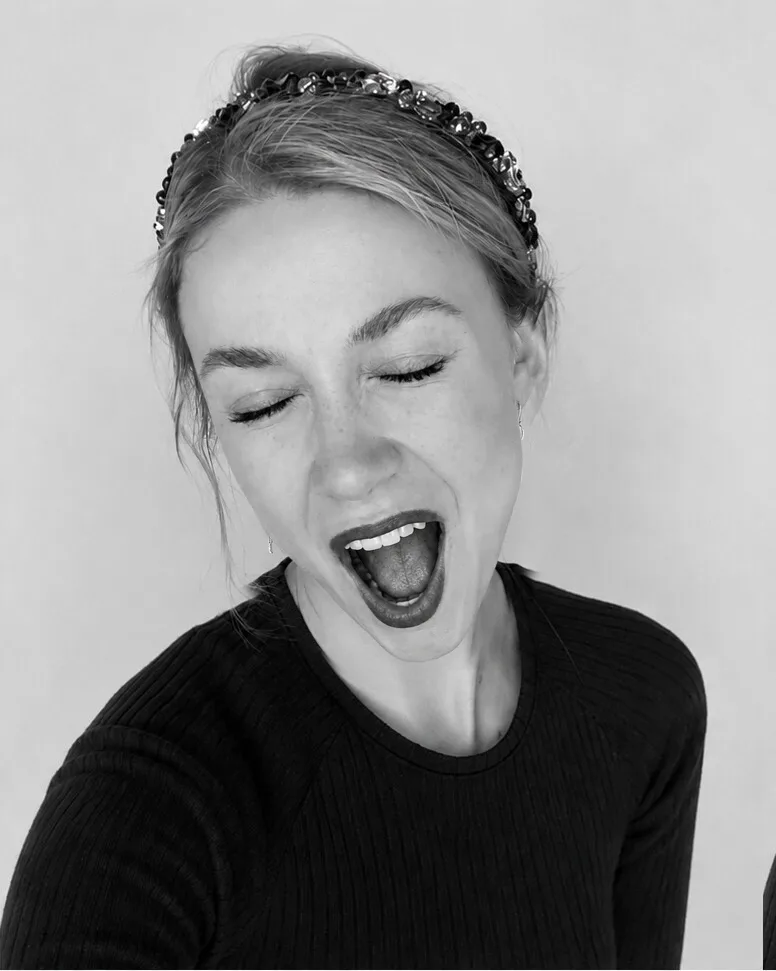
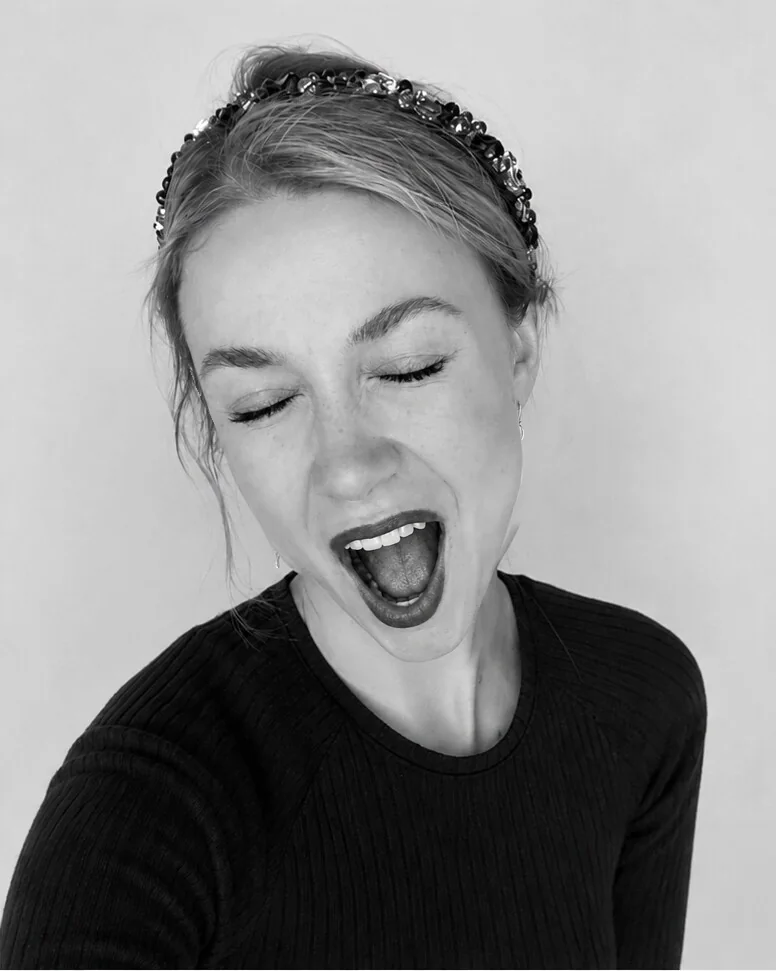
Refine hero portrait seams

diff --git a/ks/AGENTS.md b/ks/AGENTS.md
@@ -115,13 +115,17 @@ Below that it is an ordinary flowing document.
 - Two frames cross-fade in the same box: `assets/portrait/calm-*` and
   `assets/portrait/wink-*`. The hover expression comes from the client's exact
   reference in `source-assets/portrait-rock-reference.png`. Register that source
-  rigidly by the ears and crown, then keep its complete face — from the brows
-  through the open mouth, lower oval and elongated chin — at the source
+  rigidly to the fixed head position, then keep its complete face — from the
+  brows through the open mouth, lower oval and elongated chin — at the source
   proportions. Do not morph its jaw toward the shorter calm-frame jaw. The head
-  position, ear positions, hairline, neck, shoulders, clothes, background and
-  crop stay fixed; only a narrow seam below the chin may be feathered into the
-  calm body. Moving anything else between frames breaks the illusion of a single
-  continuous shot.
+  position, crown, hair, headband, loose strands, neck, shoulders, clothes,
+  background and crop stay fixed to the calm frame. The viewer-right ear and its
+  cheek seam belong to the registered hover reference; never preserve the calm
+  ear there, because it creates a double contour. Only that local ear region and
+  a narrow seam below the chin may change outside the face. Moving the fixed
+  regions between frames breaks the illusion of a single continuous shot.
+- Remove the source photo's narrow dark sliver at the extreme bottom-right from
+  both exported frames so that defect neither remains visible nor flickers.
 - The frame is `aspect-ratio: 776 / 971`, the exact aspect of the source pair,
   and the images are `object-fit: cover` with no `object-position` shift. Zero
   crop means zero drift between the two states.

diff --git a/ks/README.md b/ks/README.md
@@ -21,11 +21,12 @@ project on the owner's `cz` server.
 
 The hero's rock-expression source is preserved at
 [`source-assets/portrait-rock-reference.png`](./source-assets/portrait-rock-reference.png).
-The published hover exports rigidly register that exact source by the ears and
-crown, preserving its open mouth, complete lower oval and elongated chin without
-morphing them toward the calm face. The body, shoulders, background, ear
-positions and overall head placement stay fixed so the cross-fade reads as one
-continuous portrait.
+The published hover exports rigidly register that exact source to the fixed head
+position, preserving its open mouth, complete lower oval and elongated chin
+without morphing them toward the calm face. The crown, hair, headband, loose
+strands, body, shoulders, background and overall head placement stay fixed to
+the calm frame. The viewer-right ear and adjacent cheek seam instead come from
+the registered hover reference so no calm-frame ear survives as a ghost contour.
 
 ## Source of truth
 
